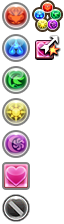
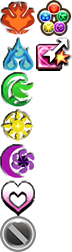
更改属性的图标

diff --git a/style-monsterimages.css b/style-monsterimages.css
@@ -983,23 +983,24 @@ icon.type
 .attr
 {
 	display: inline-block;
-	width: 32px;
-	height: 32px;
+	width: 36px;
+	height: 36px;
+	line-height: 36px;
 	background-image: url(images/attrs.png);
-	background-position-y:calc(32px);
+	background-position-y:calc(36px);
 	background-repeat: no-repeat;
 	vertical-align: bottom;
 }
 .attr[data-attr-icon='any'],
 .attr[data-attr-icon='self']
 {
-	background-position-x: -32px;
-	background-position-y:calc(-32px * 0);
+	background-position-x: -36px;
+	background-position-y:calc(-36px * 0);
 }
 .attr[data-attr-icon='fixed']
 {
-	background-position-x: -32px;
-	background-position-y:calc(-32px * 1);
+	background-position-x: -36px;
+	background-position-y:calc(-36px * 1);
 }
 
 .attr[data-attr-icon='-1']
@@ -1008,31 +1009,31 @@ icon.type
 }
 .attr[data-attr-icon='0']
 {
-	background-position-y:calc(-32px * 0);
+	background-position-y:calc(-36px * 0);
 }
 .attr[data-attr-icon='1']
 {
-	background-position-y:calc(-32px * 1);
+	background-position-y:calc(-36px * 1);
 }
 .attr[data-attr-icon='2']
 {
-	background-position-y:calc(-32px * 2);
+	background-position-y:calc(-36px * 2);
 }
 .attr[data-attr-icon='3']
 {
-	background-position-y:calc(-32px * 3);
+	background-position-y:calc(-36px * 3);
 }
 .attr[data-attr-icon='4']
 {
-	background-position-y:calc(-32px * 4);
+	background-position-y:calc(-36px * 4);
 }
 .attr[data-attr-icon='5']
 {
-	background-position-y:calc(-32px * 5);
+	background-position-y:calc(-36px * 5);
 }
 .attr[data-attr-icon='6']
 {
-	background-position-y:calc(-32px * 6);
+	background-position-y:calc(-36px * 6);
 }
 
 /*珠子图片*/

diff --git a/style.css b/style.css
@@ -1508,10 +1508,7 @@ icon.inflicts::after
 .attrs-div .attr-list>li>label
 {
 	width: 55px;
-	height: 32px;
-	line-height:32px;
 	text-align: center;
-	vertical-align: middle;
 }
 .attrs-div .attr-list input:checked+label,
 .qr-data-type-ul>li input:checked+label
@@ -3182,6 +3179,8 @@ table .orb-icon
 	background-repeat: no-repeat;
 }
 .icon-skill,
+.attr-list .attr,
+.skill-datail-parsed icon.attr,
 .skill-datail-parsed icon.orb,
 .skill-datail-parsed icon.type,
 .skill-datail-parsed icon.awoken-icon
